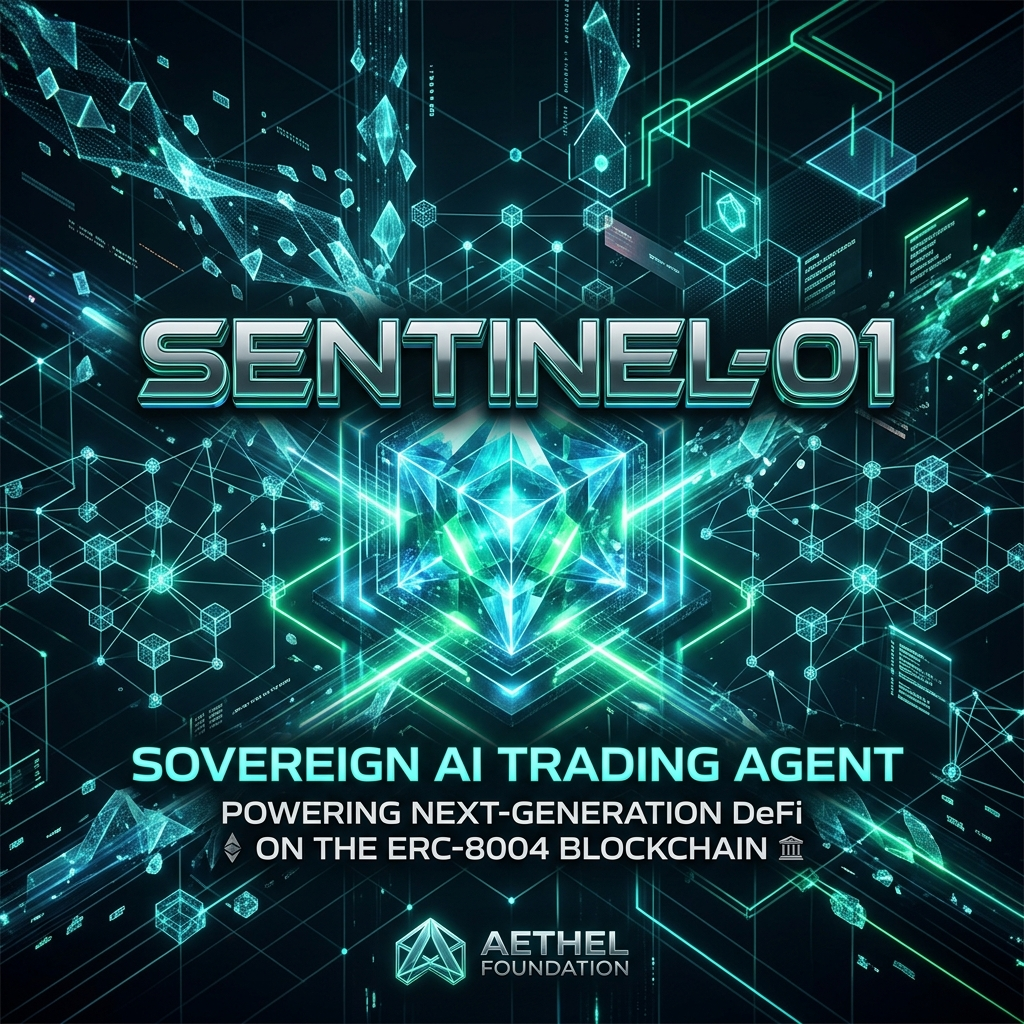
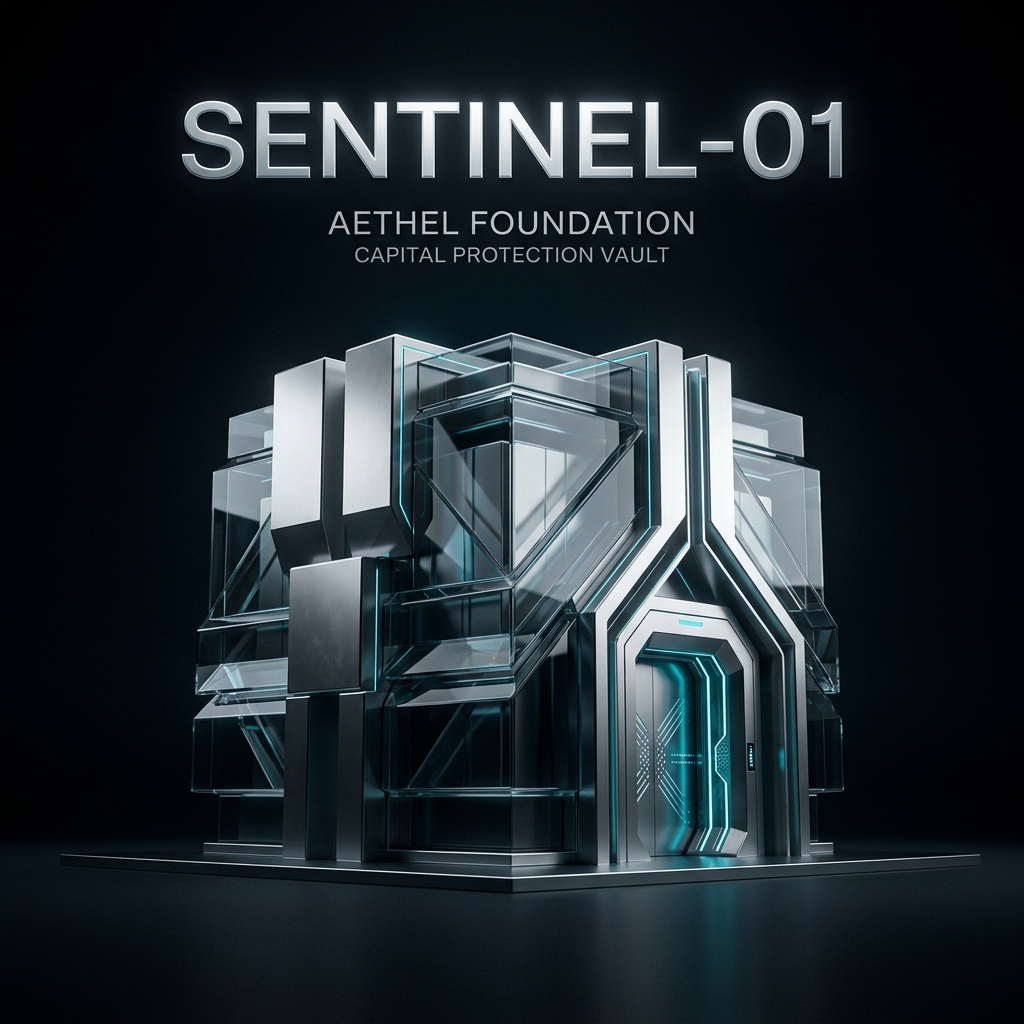
feat: Add AETHEL Brandbook and refine institutional visual identity

diff --git a/docs/BRANDBOOK.md b/docs/BRANDBOOK.md
@@ -1,0 +1,24 @@
+# AETHEL Foundation - Brandbook & Design System
+
+## 1. Core Identity & Philosophy
+AETHEL Foundation builds autonomous, risk-first financial agents. Our visual identity must reflect **Institutional Trust, Impeccable Logic, and Cryptographic Security**. The brand is a bridge between traditional Swiss-banking-level fiduciary responsibility and the bleeding-edge capability of Web3 AI.
+
+**Keywords:** Monolithic, Parametric, Glassmorphism, Fiduciary, Cryptographic, Minimalist.
+
+## 2. Color Palette (Aethel Palette)
+- **Obsidian Deep (Backgrounds/Canvas):** `#06080F` (Pitch black with a subliminal touch of luxury navy).
+- **Aethel Cyan (Active Logic/Liquidity):** `#00E5FF` (Neon cyan, used strictly for accents, glowing lines, or active states).
+- **Titanium Vault (Structures/Typography):** `#8A95A5` (Brushed gunmetal and silver).
+
+## 3. Visual Language & Aesthetics 
+- **Parametric Geometry:** Use fluid, logical topographical lines or geometric nodal alignments instead of messy "hacker" code streams.
+- **Monolithic Structures:** Security and capital protection should be represented by abstract, sleek obelisks, perfect spheres, or highly polished symmetrical structures set in vast negative space.
+- **Atmosphere:** Dark, cinematic, clean (no digital noise, no cluttered interfaces).
+- **Avoid:** Generic clip-art shields, messy cyberpunk neon grids, floating binary numbers.
+
+## 4. Typography
+- Primarily sleek sans-serif. Highly legible, utilizing heavy kerning for premium spacing.
+
+## 5. Master Generation Prompt Template
+*(When generating assets via AI, use this matrix)*
+> "A highly professional, minimalist, and cinematic [OBJECT/SCENE] for AETHEL Foundation. Aesthetic: Parametric design, glassmorphism, monolithic minimalist shapes. Colors: Obsidian Deep background, Titanium Vault silver structures, subtle Aethel Cyan glowing accents. Vast negative space. Ultra-luxurious, institutional decentralized finance aesthetic. No messy code, no generic cyber grids. Immaculate execution."
